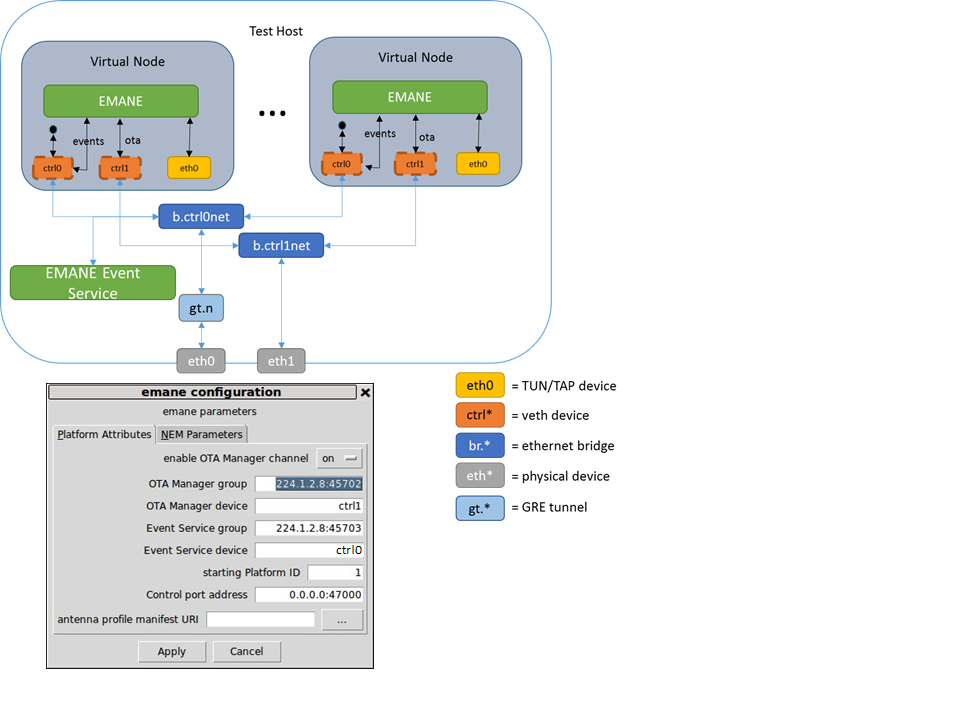
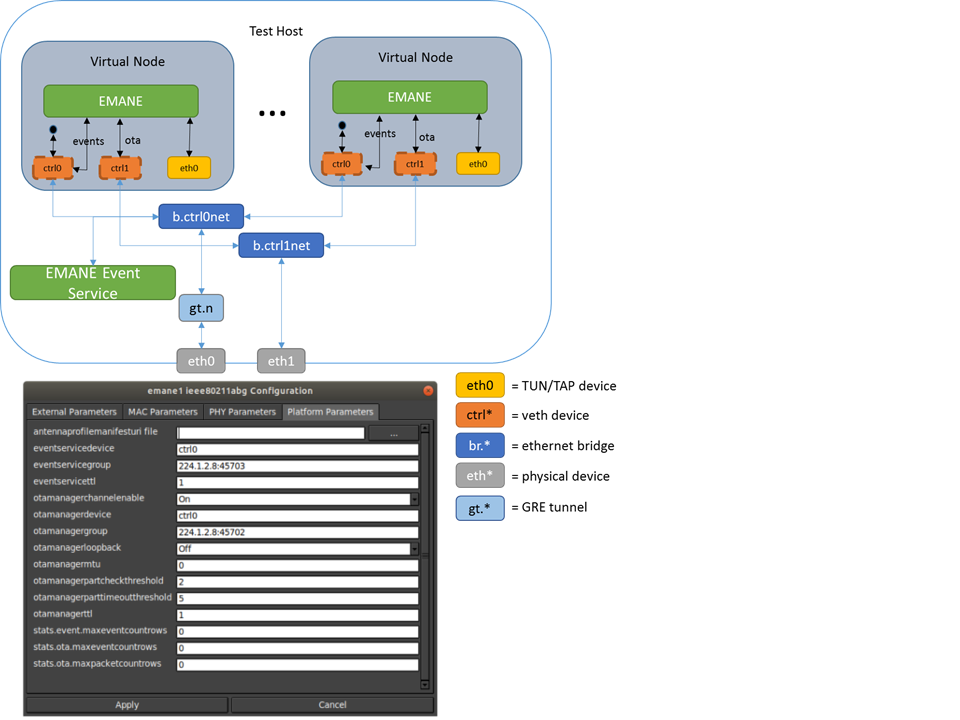
docs: updated emane docs to remove old GUI references and update the example pictures to include the configuration dialog of the new gui

Changed region(s): [[0.0, 0.5194, 0.4688, 1.0]]

diff --git a/docs/emane.md b/docs/emane.md
@@ -33,7 +33,7 @@ user space socket to the TAP device for sending and receiving data from CORE.
 An EMANE instance sends and receives OTA (Over-The-Air) traffic to and from
 other EMANE instances via a control port (e.g. *ctrl0*, *ctrl1*).  It also
 sends and receives Events to and from the Event Service using the same or a
-different control port. EMANE models are configured through CORE's WLAN
+different control port. EMANE models are configured through the GUI's
 configuration dialog. A corresponding EmaneModel Python class is sub-classed
 for each supported EMANE model, to provide configuration items and their
 mapping to XML files. This way new models can be easily supported. When
@@ -201,26 +201,20 @@ EMANE. Using the primary control channel prevents your emulation session from
 sending multicast traffic on your local network and interfering with other
 EMANE users.
 
-EMANE is configured through a WLAN node, because it is all about emulating
-wireless radio networks. Once a node is linked to a WLAN cloud configured
-with an EMANE model, the radio interface on that node may also be configured
+EMANE is configured through an EMANE node. Once a node is linked to an EMANE
+cloud, the radio interface on that node may also be configured
 separately (apart from the cloud.)
 
-Double-click on a WLAN node to invoke the WLAN configuration dialog. Click
-the *EMANE* tab; when EMANE has been properly installed, EMANE wireless modules
-should be listed in the *EMANE Models* list. (You may need to restart the
+Right click on an EMANE node and select EMANE Config to open the configuration dialog.
+The EMANE models should be listed here for selection. (You may need to restart the
 CORE daemon if it was running prior to installing the EMANE Python bindings.)
-Click on a model name to enable it.
 
-When an EMANE model is selected in the *EMANE Models* list, clicking on the
-*model options* button causes the GUI to query the CORE daemon for
-configuration items. Each model will have different parameters, refer to the
+When an EMANE model is selected, you can click on the models option button
+causing the GUI to query the CORE daemon for  configuration items.
+Each model will have different parameters, refer to the
 EMANE documentation for an explanation of each item. The defaults values are
-presented in the dialog. Clicking *Apply*  and *Apply* again will store the
+presented in the dialog. Clicking *Apply* and *Apply* again will store the
 EMANE model selections.
-
-The *EMANE options* button allows specifying some global parameters for
-EMANE, some of which are necessary for distributed operation.
 
 The RF-PIPE and IEEE 802.11abg models use a Universal PHY that supports
 geographic location information for determining pathloss between nodes. A
@@ -241,21 +235,12 @@ used to achieve geo-location accuracy in this situation.
 Clicking the green *Start* button launches the emulation and causes TAP devices
 to be created in the virtual nodes that are linked to the EMANE WLAN. These
 devices appear with interface names such as eth0, eth1, etc. The EMANE processes
-should now be running in each namespace. For a four node scenario:
+should now be running in each namespace.
 
-```shell
-ps -aef | grep emane
-root  1063 969 0 11:46 ? 00:00:00 emane -d --logl 3 -r -f /tmp/pycore.59992/emane4.log /tmp/pycore.59992/platform4.xml
-root  1117 959 0 11:46 ? 00:00:00 emane -d --logl 3 -r -f /tmp/pycore.59992/emane2.log /tmp/pycore.59992/platform2.xml
-root  1179 942 0 11:46 ? 00:00:00 emane -d --logl 3 -r -f /tmp/pycore.59992/emane1.log /tmp/pycore.59992/platform1.xml
-root  1239 979 0 11:46 ? 00:00:00 emane -d --logl 3 -r -f /tmp/pycore.59992/emane5.log /tmp/pycore.59992/platform5.xml
-```
-
-The example above shows the EMANE processes started by CORE. To view the
-configuration generated by CORE, look in the */tmp/pycore.nnnnn/* session
-directory for a *platform.xml* file and other XML files. One easy way to view
-this information is by double-clicking one of the virtual nodes, and typing
-*cd ..* in the shell to go up to the session directory.
+To view the  configuration generated by CORE, look in the */tmp/pycore.nnnnn/* session
+directory to find the generated EMANE xml files. One easy way to view
+this information is by double-clicking one of the virtual nodes and listing the files
+in the shell.
 
 ![](static/single-pc-emane.png)
 
@@ -278,55 +263,40 @@ within a node.
 **IMPORTANT: If an auxiliary control network is used, an interface on the host
 has to be assigned to that network.**
 
-Each machine that will act as an emulation server needs to have CORE and EMANE
-installed.
+Each machine that will act as an emulation server needs to have CORE distributed
+and EMANE installed. As well as be setup to work for CORE distributed mode.
 
-The IP addresses of the available servers are configured from the CORE emulation
-servers dialog box (choose *Session* then *Emulation servers...*). This list of
-servers is stored in a *~/.core/servers.conf* file. The dialog shows available
+The IP addresses of the available servers are configured from the CORE
+servers dialog box. The dialog shows available
 servers, some or all of which may be assigned to nodes on the canvas.
 
-Nodes need to be assigned to emulation servers. Select several nodes,
-right-click them, and choose *Assign to* and the name of the desired server.
-When a node is not assigned to any emulation server, it will be emulated
-locally. The local machine that the GUI connects with is considered the
-"master" machine, which in turn connects to the other emulation server
-"slaves". Public key SSH should be configured from the master to the slaves.
+Nodes need to be assigned to servers and can be done so using the node
+configuration dialog. When a node is not assigned to any emulation server,
+it will be emulated locally.
 
-Under the *EMANE* tab of the EMANE WLAN, click on the *EMANE options* button.
-This brings up the emane configuration dialog. The *enable OTA Manager channel*
-should be set to *on*. The *OTA Manager device* and *Event Service device*
-should be set to a control network device. For example, if you have a primary
-and auxiliary control network (i.e. controlnet and controlnet1), and you want
-the OTA traffic to have its dedicated network, set the OTA Manager device to
-*ctrl1* and the Event Service device to *ctrl0*. The EMANE models can be
-configured. Click *Apply* to save these settings.
+Using the EMANE node configuration dialog. You can change the EMANE model
+being used, along with changing any configuration setting from their defaults.
 
 ![](static/distributed-emane-configuration.png)
 
 > **NOTE:** Here is a quick checklist for distributed emulation with EMANE.
 
    1. Follow the steps outlined for normal CORE.
-   2. Under the *EMANE* tab of the EMANE WLAN, click on *EMANE options*.
-   3. Turn on the *OTA Manager channel* and set the *OTA Manager device*.
-      Also set the *Event Service device*.
-   4. Select groups of nodes, right-click them, and assign them to servers
-      using the *Assign to* menu.
-   5. Synchronize your machine's clocks prior to starting the emulation,
+   2. Assign nodes to desired servers
+   3. Synchronize your machine's clocks prior to starting the emulation,
       using *ntp* or *ptp*. Some EMANE models are sensitive to timing.
-   6. Press the *Start* button to launch the distributed emulation.
+   4. Press the *Start* button to launch the distributed emulation.
 
 
 Now when the Start button is used to instantiate the emulation, the local CORE
-Python daemon will connect to other emulation servers that have been assigned
+daemon will connect to other emulation servers that have been assigned
 to nodes. Each server will have its own session directory where the
 *platform.xml* file and other EMANE XML files are generated. The NEM IDs are
-automatically coordinated across servers so there is no overlap. Each server
-also gets its own Platform ID.
+automatically coordinated across servers so there is no overlap.
 
 An Ethernet device is used for disseminating multicast EMANE events, as
 specified in the *configure emane* dialog. EMANE's Event Service can be run
-with mobility or pathloss scripts as described in :ref:`Single_PC_with_EMANE`.
+with mobility or pathloss scripts.
 If CORE is not subscribed to location events, it will generate them as nodes
 are moved on the canvas.
 
